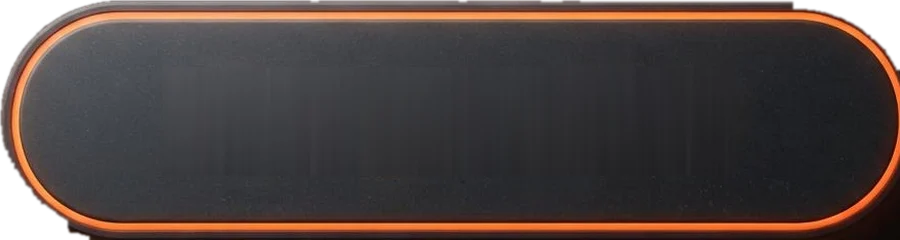
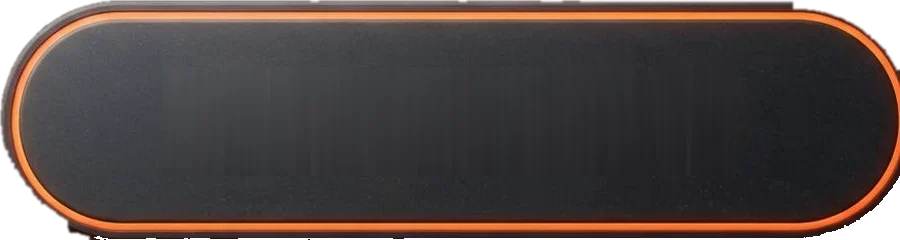
Trim pill corners and add button press states

Changed region(s): [[0.0933, 0.7292, 1.0, 1.0]]

diff --git a/src/shop.css b/src/shop.css
@@ -487,9 +487,28 @@
   border: 0;
   line-height: 0;
   font-family: Cinzel, serif;
+  cursor: pointer;
+  -webkit-tap-highlight-color: transparent;
+  transition: transform 0.14s ease, filter 0.14s ease;
+}
+.product-card.face .product-card-rows button:hover {
+  filter: brightness(1.16);
+  transform: translateY(-0.35cqw);
+}
+.product-card.face .product-card-rows button:active {
+  filter: brightness(0.86);
+  transform: translateY(0.25cqw) scale(0.96);
 }
 .product-card.face .product-card-rows button.on {
-  filter: brightness(1.15);
+  filter: brightness(1.22);
+}
+.product-card.face .product-card-rows button.on:hover {
+  filter: brightness(1.3);
+  transform: translateY(-0.35cqw);
+}
+.product-card.face .product-card-rows button.on:active {
+  filter: brightness(0.9);
+  transform: translateY(0.25cqw) scale(0.96);
 }
 .product-card.face .product-card-rows button img {
   width: 100%;
@@ -541,6 +560,17 @@
   border: 0;
   background: none;
   line-height: 0;
+  cursor: pointer;
+  -webkit-tap-highlight-color: transparent;
+  transition: transform 0.14s ease, filter 0.14s ease;
+}
+.product-card.face .product-card-add:hover {
+  filter: brightness(1.14);
+  transform: translateY(-0.35cqw);
+}
+.product-card.face .product-card-add:active {
+  filter: brightness(0.86);
+  transform: translateY(0.25cqw) scale(0.97);
 }
 .product-card.face .product-card-add img {
   width: 100%;
@@ -561,7 +591,12 @@
 .product-card.face .product-card-rows button.on span::before {
   color: currentColor;
 }
-.product-card.face .product-card-add:disabled {
+.product-card.face .product-card-add:disabled,
+.product-card.face .product-card-add:disabled:hover,
+.product-card.face .product-card-add:disabled:active {
   opacity: 0.45;
   background: none;
+  filter: none;
+  transform: none;
+  cursor: default;
 }

diff --git a/src/shop.jsx b/src/shop.jsx
@@ -84,10 +84,10 @@ const ADD_BUTTON = {
 };
 
 const SIZE_PILL = {
-  emberforge: "/art/pills/ember.webp?v=1",
+  emberforge: "/art/pills/ember.webp?v=2",
   verdant: "/art/pills/verdant.webp?v=1",
   astral: "/art/pills/astral.webp?v=1",
-  rosefire: "/art/pills/rose.webp?v=1",
+  rosefire: "/art/pills/rose.webp?v=2",
   ironwright: "/art/pills/iron.webp?v=1",
 };
 
